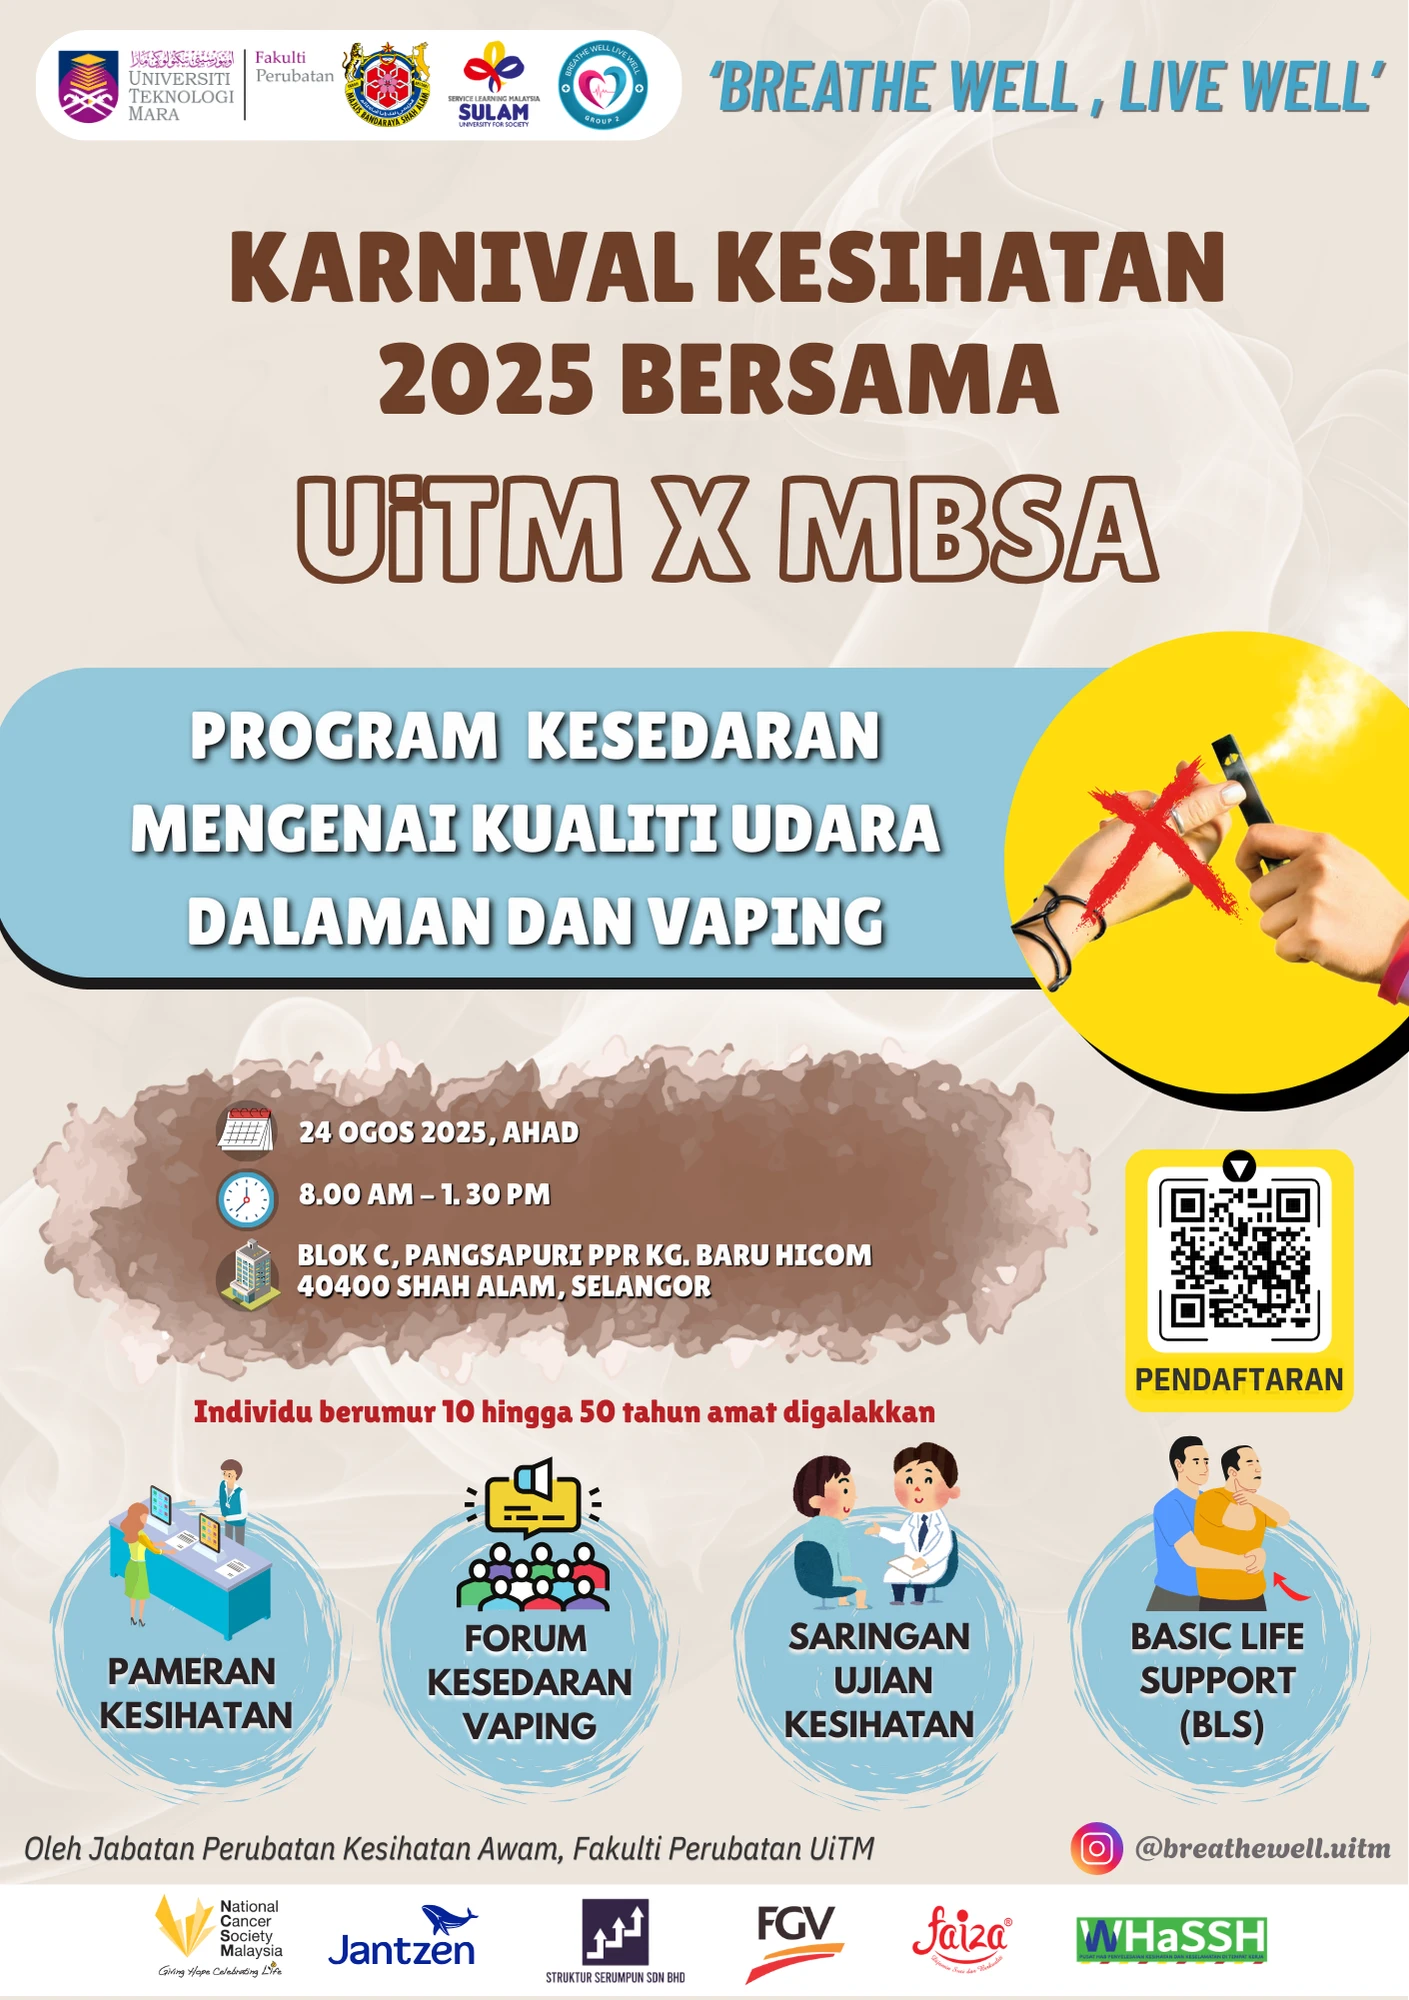
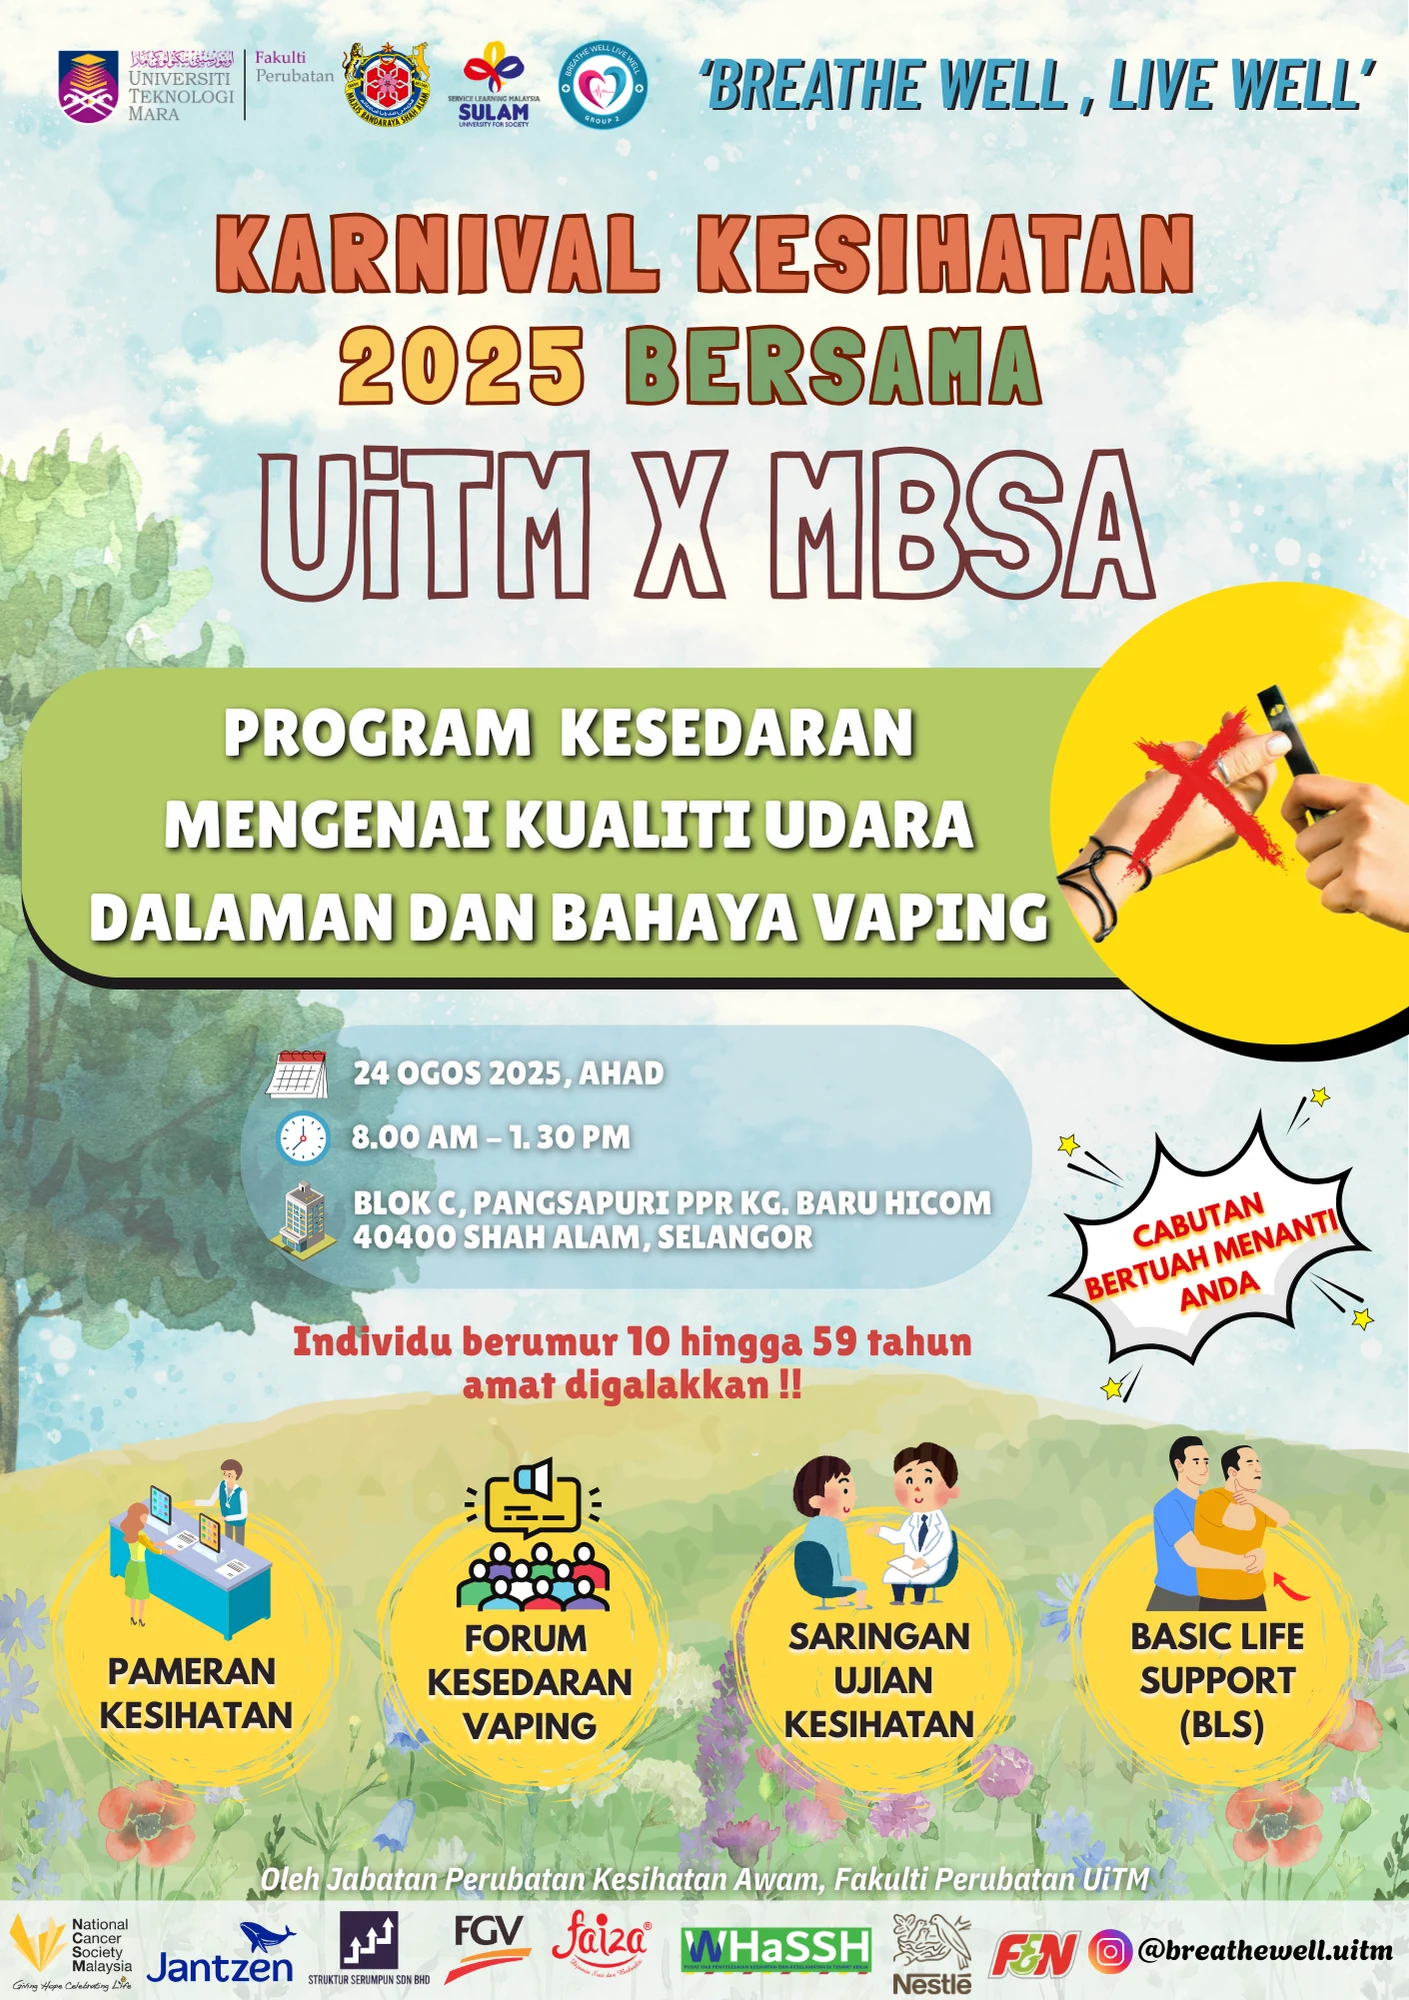
Add sponsors and change the poster

diff --git a/src/components/Sponsors.tsx b/src/components/Sponsors.tsx
@@ -1,6 +1,6 @@
 import content from '@/content.json'
 
-const images = Array(9)
+const images = Array(10)
   .fill('')
   .map((_, index) => {
     return `/images/collab-${index + 1}.webp`
@@ -15,7 +15,7 @@ export default function Sponsors() {
 
       <div className="flex flex-wrap">
         {images.map((img, index) => (
-          <div className="w-1/3 md:w-1/9 p-2" key={index}>
+          <div className="w-1/4 md:w-1/10 p-2" key={index}>
             <img className="w-full" src={img} alt={`collab-${index}`} />
           </div>
         ))}
